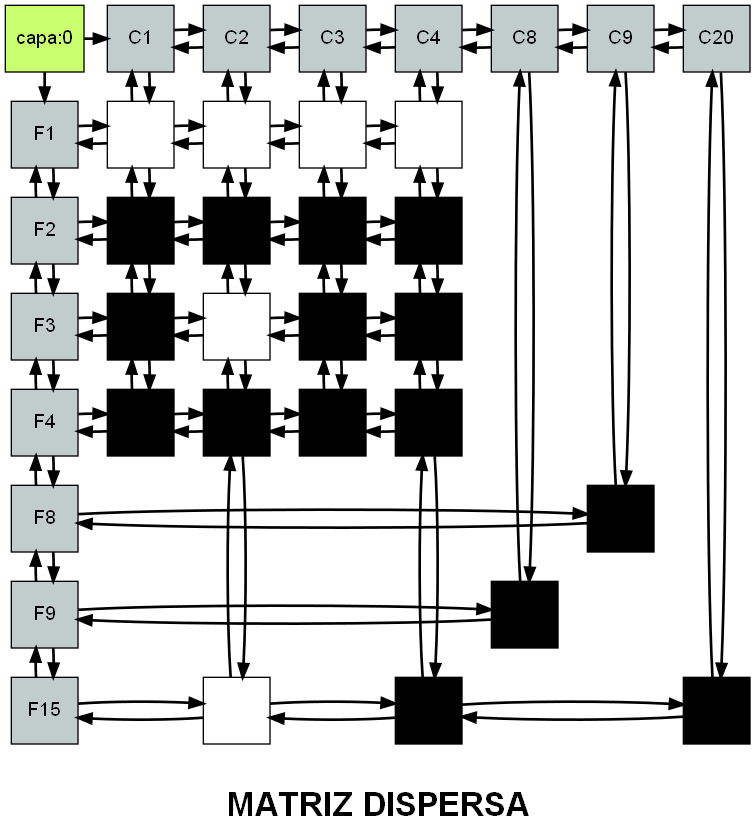
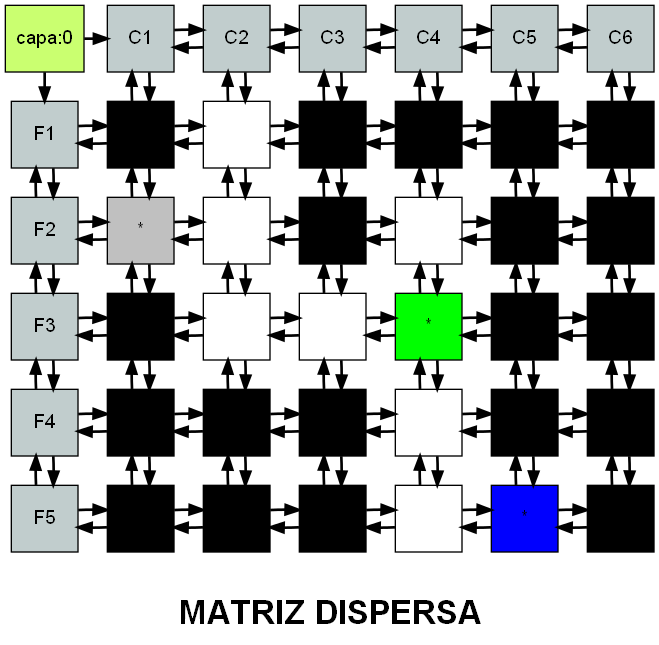
grafias funcionando

diff --git a/Entrada.py b/Entrada.py
@@ -39,19 +39,9 @@ matriz.insertar(2, 4, '*')
 matriz.insertar(3, 1, '*')
 matriz.insertar(3, 2, 'hola')
 matriz.insertar(3, 3, '*')
-matriz.insertar(3, 4, '*')
-matriz.insertar(4, 1, '*')
-matriz.insertar(4, 2, '*')
-matriz.insertar(4, 3, '*')
-matriz.insertar(4, 4, '*')
-matriz.insertar(8, 9, '*')
-matriz.insertar(9, 8, '*')
-matriz.insertar(2, 2, '*')
-matriz.insertar(15,20,'*')
-matriz.insertar(15,2, 'Luis Enrique')
-matriz.insertar(15,4,'*')
 
-#matriz.graficarNeato('MatrizDispersa')
+
+matriz.graficarNeato('MatrizDispersa')
 
 matriz.recorridoPorFila(50)
 matriz.recorridoPorColumna(2)
@@ -98,34 +88,37 @@ def CargarArchivo(ruta):
                 filaC=""
                 columnaC=""
 
-                print(subelemento.find('nombre').text)
+                #print(subelemento.find('nombre').text)
                 nombreC= subelemento.find('nombre').text
-                print(subelemento.find('nombre').attrib['filas'])
+                #print(subelemento.find('nombre').attrib['filas'])
                 filaC=str(subelemento.find('nombre').attrib['filas'])
-                print(subelemento.find('nombre').attrib['columnas'])
+                #print(subelemento.find('nombre').attrib['columnas'])
                 columnaC= str(subelemento.find('nombre').attrib['columnas'])
                 #CREO LOS ROBOTS QUE VIENEN EN EL ARCHIVO DE ENTRADA            
                 ListaCiudades.CrearCiudad(nombreC,filaC,columnaC)
-                print(subelemento.tag)
+                #print(subelemento.tag)
 
             #GUARDANDO LOS DATOS EN LA MATRIZ
                 for subsubelemento in subelemento.iter('fila'):
                     #BUSCANDO LA RUTA A LA QUE SE LE VA A AGREGAR LA MATRIZ
-                    print(subelemento.find('nombre').text)
+                    #print(subelemento.find('nombre').text)
                     Posicion =  ListaCiudades.getCiudad(subelemento.find('nombre').text)
-                    print(Posicion)
-                    print(subsubelemento.text)
+                    #print(Posicion)
+                    #print(subsubelemento.text)
                     lista =re.findall("[ECR*\s]" , subsubelemento.text)
                     print(lista)
-                    
+                    numerofila= str(subsubelemento.attrib['numero'])
+
                     contador = 1
                     #FOR DONDE METO LOS DATOS A LA MATRIZ 
                     for dato in lista:
                         #GUARDO DATOS EN LA MATRIZ (X , Y , CARACTER)
-                        Posicion.matriz.insertar(filaC,contador,dato)
+                        print(numerofila,contador,dato)
+                        Posicion.matriz.insertar(numerofila,contador,dato)
                         print(dato)   
-                        contador+1
-
+                        contador+=1
+                        #print(contador)
+                    print("imprime->"+str(contador))
             #print(subelemento.find('ciudad').text)
 
         
@@ -166,7 +159,11 @@ while True:
         
         print("--------------")
         print("CIUDADES QUE TENGO")
-        ListaCiudades.mostrarCiudad()        
+        ListaCiudades.mostrarCiudad()
+
+        datox = input("INGRESE EL NOMBRE DE LA CIUDAD PARA GENERAR GRAFICA")
+        ciudax = ListaCiudades.getCiudad(datox)
+        ciudax.matriz.graficarNeato(datox)        
 
         
     elif Eleccion == "4":

diff --git a/MatrizDispersa.py b/MatrizDispersa.py
@@ -226,6 +226,18 @@ class MatrizDispersa():
                     contenido += '\n\tnode[label="*" fillcolor="black" pos="{},-{}!" shape=box]i{}_{};'.format( #pos="{},-{}!"
                         posy_celda, posx, pivote_celda.coordenadaX, pivote_celda.coordenadaY
                     )
+                elif pivote_celda.caracter == 'E':
+                    contenido += '\n\tnode[label="*" fillcolor="green" pos="{},-{}!" shape=box]i{}_{};'.format( #pos="{},-{}!"
+                        posy_celda, posx, pivote_celda.coordenadaX, pivote_celda.coordenadaY
+                    )
+                elif pivote_celda.caracter == 'C':
+                    contenido += '\n\tnode[label="*" fillcolor="blue" pos="{},-{}!" shape=box]i{}_{};'.format( #pos="{},-{}!"
+                        posy_celda, posx, pivote_celda.coordenadaX, pivote_celda.coordenadaY
+                    )
+                elif pivote_celda.caracter == 'R':
+                    contenido += '\n\tnode[label="*" fillcolor="gray" pos="{},-{}!" shape=box]i{}_{};'.format( #pos="{},-{}!"
+                        posy_celda, posx, pivote_celda.coordenadaX, pivote_celda.coordenadaY
+                    )
                 else:
                     contenido += '\n\tnode[label=" " fillcolor="white" pos="{},-{}!" shape=box]i{}_{};'.format( # pos="{},-{}!"
                         posy_celda, posx, pivote_celda.coordenadaX, pivote_celda.coordenadaY
